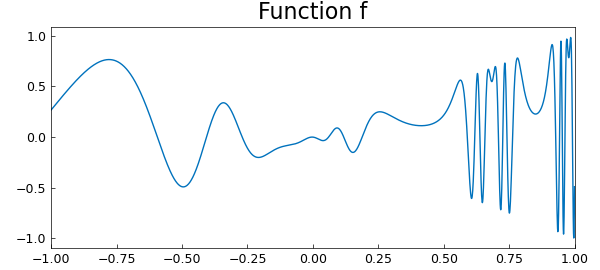
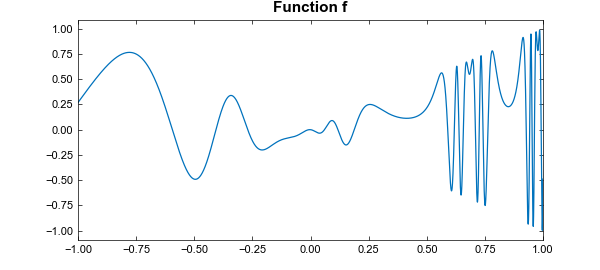
Restore Gauss and Clenshaw-Curtis figure sequence and measured output

diff --git a/examples/quad/gauss_clen_curt.py b/examples/quad/gauss_clen_curt.py
@@ -13,15 +13,15 @@ import matplotlib
 matplotlib.use("Agg")
 import os
 import sys
+import time
 
 import jax.numpy as jnp
 import matplotlib.pyplot as plt
-import numpy as np
 
 sys.path.insert(0, os.path.join(os.path.dirname(__file__), '..', '..', 'src'))
 
 import chebfunjax as cj
-from chebfunjax.plotting import chebfun_style
+from chebfunjax.plotting import chebfun_style, matlab_plot
 from chebfunjax.plotting import save_chebfun_figure as _savefig
 from chebfunjax.utils.quadrature import chebpts, chebweights, legpts
 
@@ -30,17 +30,55 @@ _HERE = os.path.dirname(os.path.abspath(__file__))
 _IMG = os.path.join(_HERE, '..', '..', 'docs', 'images', 'quad')
 
 
+def _publish(fig, name):
+    """Apply the cached page's export geometry to the computed plot.
+
+    MATLAB font/marker points and Matplotlib export points have different
+    visible sizes here. These are page rendering choices; numerical arrays
+    and the source plotting calls below retain their original values.
+    Historical font rasterization and exact pixel parity remain unqualified.
+    """
+    ax = fig.axes[0]
+    ax.set_position([.13, .11, .775, .815])
+    ax.title.set_fontsize(11)
+    ax.title.set_fontweight('bold')
+    ax.xaxis.label.set_fontsize(8.5)
+    ax.yaxis.label.set_fontsize(8.5)
+    ax.tick_params(labelsize=8, top=True, right=True)
+    for line in ax.lines:
+        line.set_linewidth(.9 if name.endswith('01.png') else .75)
+        if line.get_marker() == '.':
+            line.set_markersize(4)
+    if not name.endswith('01.png'):
+        ax.set_xlim(0, 500)
+        ax.set_xticks(range(0, 501, 50))
+        ax.set_yscale('log', nonpositive='mask')
+        ax.set_yticks([1, 1e-5, 1e-10, 1e-15])
+        ax.grid(True, color='#b0b0b0', alpha=.35, linewidth=.5)
+        legend = ax.get_legend()
+        if legend is not None:
+            for text in legend.get_texts():
+                text.set_fontsize(8)
+                text.set_fontfamily('Arial')
+            for line in legend.get_lines():
+                line.set_markersize(4)
+                line.set_linewidth(.75)
+    for text in [ax.title, ax.xaxis.label, ax.yaxis.label,
+                 *ax.get_xticklabels(), *ax.get_yticklabels()]:
+        text.set_fontfamily('Arial')
+    _savefig(fig, os.path.join(_IMG, name), size=(600, 270))
+
+
 def run():
     os.makedirs(_IMG, exist_ok=True)
     f = lambda x: x * jnp.sin(2 * jnp.exp(2 * jnp.sin(2 * jnp.exp(2 * x))))
     fc = cj.chebfun(f)
-    xs = np.linspace(-1, 1, 2000)
     fig, ax = plt.subplots(figsize=(6.8, 4.0))
-    ax.plot(xs, np.asarray(fc(jnp.asarray(xs))), lw=1.0)
+    matlab_plot(fc, ax=ax, linewidth=1.2)
     ax.set_title("Function f", fontsize=16)
     fig.set_facecolor("white")
     fig.tight_layout()
-    _savefig(fig, os.path.join(_IMG, "GaussClenCurt_01.png"), size=(600, 270))
+    _publish(fig, "GaussClenCurt_01.png")
     plt.close(fig)
 
     Icheb = float(fc.sum())
@@ -49,36 +87,44 @@ def run():
     N = len(fc)
     print("Npts =")
     print(f"   {N}")
-    s = np.asarray(chebpts(N))
-    w = np.asarray(chebweights(N))
+    s = chebpts(N)
+    w = chebweights(N)
     print("Iclenshawcurtis =")
-    print(f"   {float(w @ np.asarray(f(jnp.asarray(s)))):.15f}")
-    sg, wg = (np.asarray(v) for v in legpts(N))
+    print(f"   {float(w @ f(s)):.15f}")
+    sg, wg = legpts(N)
     print("Igauss =")
-    print(f"   {float(wg @ np.asarray(f(jnp.asarray(sg)))):.15f}")
+    print(f"   {float(wg @ f(sg)):.15f}")
 
-    NN = np.arange(10, 501, 10)
-    errG, errC = [], []
-    for Npts in NN:
-        sg, wg = (np.asarray(v) for v in legpts(int(Npts)))
-        errG.append(abs(float(wg @ np.asarray(f(jnp.asarray(sg))))
-                        - Icheb))
-        s = np.asarray(chebpts(int(Npts)))
-        w = np.asarray(chebweights(int(Npts)))
-        errC.append(abs(float(w @ np.asarray(f(jnp.asarray(s)))) - Icheb))
+    # Source has two successive figures: Gauss alone, then both rules.
     fig, ax = plt.subplots(figsize=(6.8, 4.4))
-    ax.semilogy(NN, np.maximum(errG, 1e-18), ".-", ms=8, label="Gauss")
-    ax.semilogy(NN, np.maximum(errC, 1e-18), ".-r", ms=8,
-                label="Clenshaw-Curtis")
+    tic = time.perf_counter()
+    NN = range(10, 501, 10)
+    errG = []
+    for Npts in NN:
+        sg, wg = legpts(Npts)
+        errG.append(abs(float(wg @ f(sg)) - Icheb))
+    ax.semilogy(NN, errG, ".-", lw=1, ms=16, label="Gauss")
     ax.set_ylim(1e-18, 1)
     ax.grid(True)
     ax.set_xlabel("Npts", fontsize=12)
     ax.set_ylabel("Error", fontsize=12)
-    ax.set_title("Gauss and Clenshaw-Curtis", fontsize=16)
-    ax.legend(loc="lower left")
+    ax.set_title("Gauss quadrature convergence", fontsize=16)
+    print(f"Elapsed time is {time.perf_counter() - tic:.6f} seconds.")
     fig.set_facecolor("white")
     fig.tight_layout()
-    _savefig(fig, os.path.join(_IMG, "GaussClenCurt_02.png"), size=(600, 270))
+    _publish(fig, "GaussClenCurt_02.png")
+
+    tic = time.perf_counter()
+    errC = []
+    for Npts in NN:
+        s = chebpts(Npts)
+        w = chebweights(Npts)
+        errC.append(abs(float(w @ f(s)) - Icheb))
+    ax.semilogy(NN, errC, ".-r", lw=1, ms=16, label="Clenshaw-Curtis")
+    ax.set_title("Gauss and Clenshaw-Curtis", fontsize=16)
+    ax.legend(loc="lower left")
+    print(f"Elapsed time is {time.perf_counter() - tic:.6f} seconds.")
+    _publish(fig, "GaussClenCurt_03.png")
     plt.close(fig)
     return True
 

diff --git a/docs/examples/quad/GaussClenCurt.md b/docs/examples/quad/GaussClenCurt.md
@@ -51,7 +51,7 @@ Iclenshawcurtis = w*f(s)
 
 ```text
 Iclenshawcurtis =
-   0.336732834781728
+   0.336732834781727
 ```
 
 Or we could try Gauss quadrature with the same number of points and weights.
@@ -85,7 +85,7 @@ title('Gauss quadrature convergence',FS,16), toc
 ```
 
 ```text
-
+Elapsed time is 27.981786 seconds.
 ```
 
 ![GaussClenCurt figure 02](../../images/quad/GaussClenCurt_02.png)
@@ -105,7 +105,7 @@ legend('Gauss','Clenshaw-Curtis','location','southwest'), toc
 ```
 
 ```text
-
+Elapsed time is 22.494884 seconds.
 ```
 
 ![GaussClenCurt figure 03](../../images/quad/GaussClenCurt_03.png)
